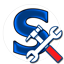
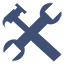
Cosmetic Changes
I decided to make it look a bit more modern with my design proposals for the new versions.

You are free to modify it how you please.

I also have the raw PSD files:

diff --git a/src/ui/options.css b/src/ui/options.css
@@ -1,7 +1,7 @@
 
 /* @import url("chrome://browser/content/extension.css"); */
 body {
-  background: #eee url("/img/noscript-options.png") no-repeat fixed top right;
+  background: #fff url("/img/noscript-options.png") no-repeat fixed top right;
   background-size: 8em;
   padding: 0 2em 0 0;
   margin: 0.5em 0.5em 0.5em 0.5em;
@@ -20,15 +20,14 @@ body {
   text-align: right;
 }
 #header h1 {
-  color: #048;
-  text-shadow: 0.06em 0.06em 0.06em rgba(0,0,0,.5);
+  color: #848484;
   font-size: 2em;
   padding: 0;
   margin: 0;
   text-align: right;
 }
 #version {
-  color: #048;
+  color: #848484;
   font-size: 0.75em;
   padding: 0;
   margin: 0 0 0.5em;
@@ -59,7 +58,6 @@ body {
   display: flex;
   flex-flow: row wrap;
   justify-content: flex-start;
-  border-bottom: 1px solid rgba(255, 255, 255, .5);
   padding: .5em 0;
 }
 
@@ -122,7 +120,6 @@ body.debug div.debug {
 }
 
 input, button {
-  font-size: 1em;
 }
 
 button.add {
@@ -161,23 +158,23 @@ input[type="file"] {
 }
 
 .flextabs__content, .flextabs__toggle[aria-expanded="true"] {
-  background-color: rgba(200, 200, 200, .5) !important;
+  background-color: rgba(230, 230, 230, .5) !important;
   border: 0 solid #888;
 }
 
 .flextabs__toggle {
   -moz-appearance: none;
-  border-width: 0 1px 0 0 !important;
+  border-width: 0 0 0 0 !important;
   margin: 0 4px 0 0;
-  background: #ccc;
+  background: #e6e6e6;
   outline-width: 1px 0 0 0 !important;
 }
 
 
 
 .flextabs__content {
-  border-width: 0 1px 1px 0;
-  border-radius: 0 .5em 0 0;
+  border-width: 0 0 0 0;
+  border-radius: 0 .5em .5em .5em;
   padding: .5em;
 }
 

diff --git a/src/ui/ui.css b/src/ui/ui.css
@@ -349,7 +349,7 @@ input.preset:checked ~ input.temp {
 }
 .customizing input.preset:checked, #presets input.preset, #presets input.preset:checked  {
   margin: 0 1em -0.2em 1em;
-  border-radius: 0.5em 0.5em 0 0;
+  border-radius: 0.5em 0.5em 0.5em 0.5em;
 }
 
 .customizing input.preset:checked + label.preset {
@@ -357,7 +357,7 @@ input.preset:checked ~ input.temp {
 }
 
 .customizing, .customizer {
-  background-color: #cca !important;
+  background-color: rgb(243, 243, 243) !important;
 }
 
 .customizer div {
